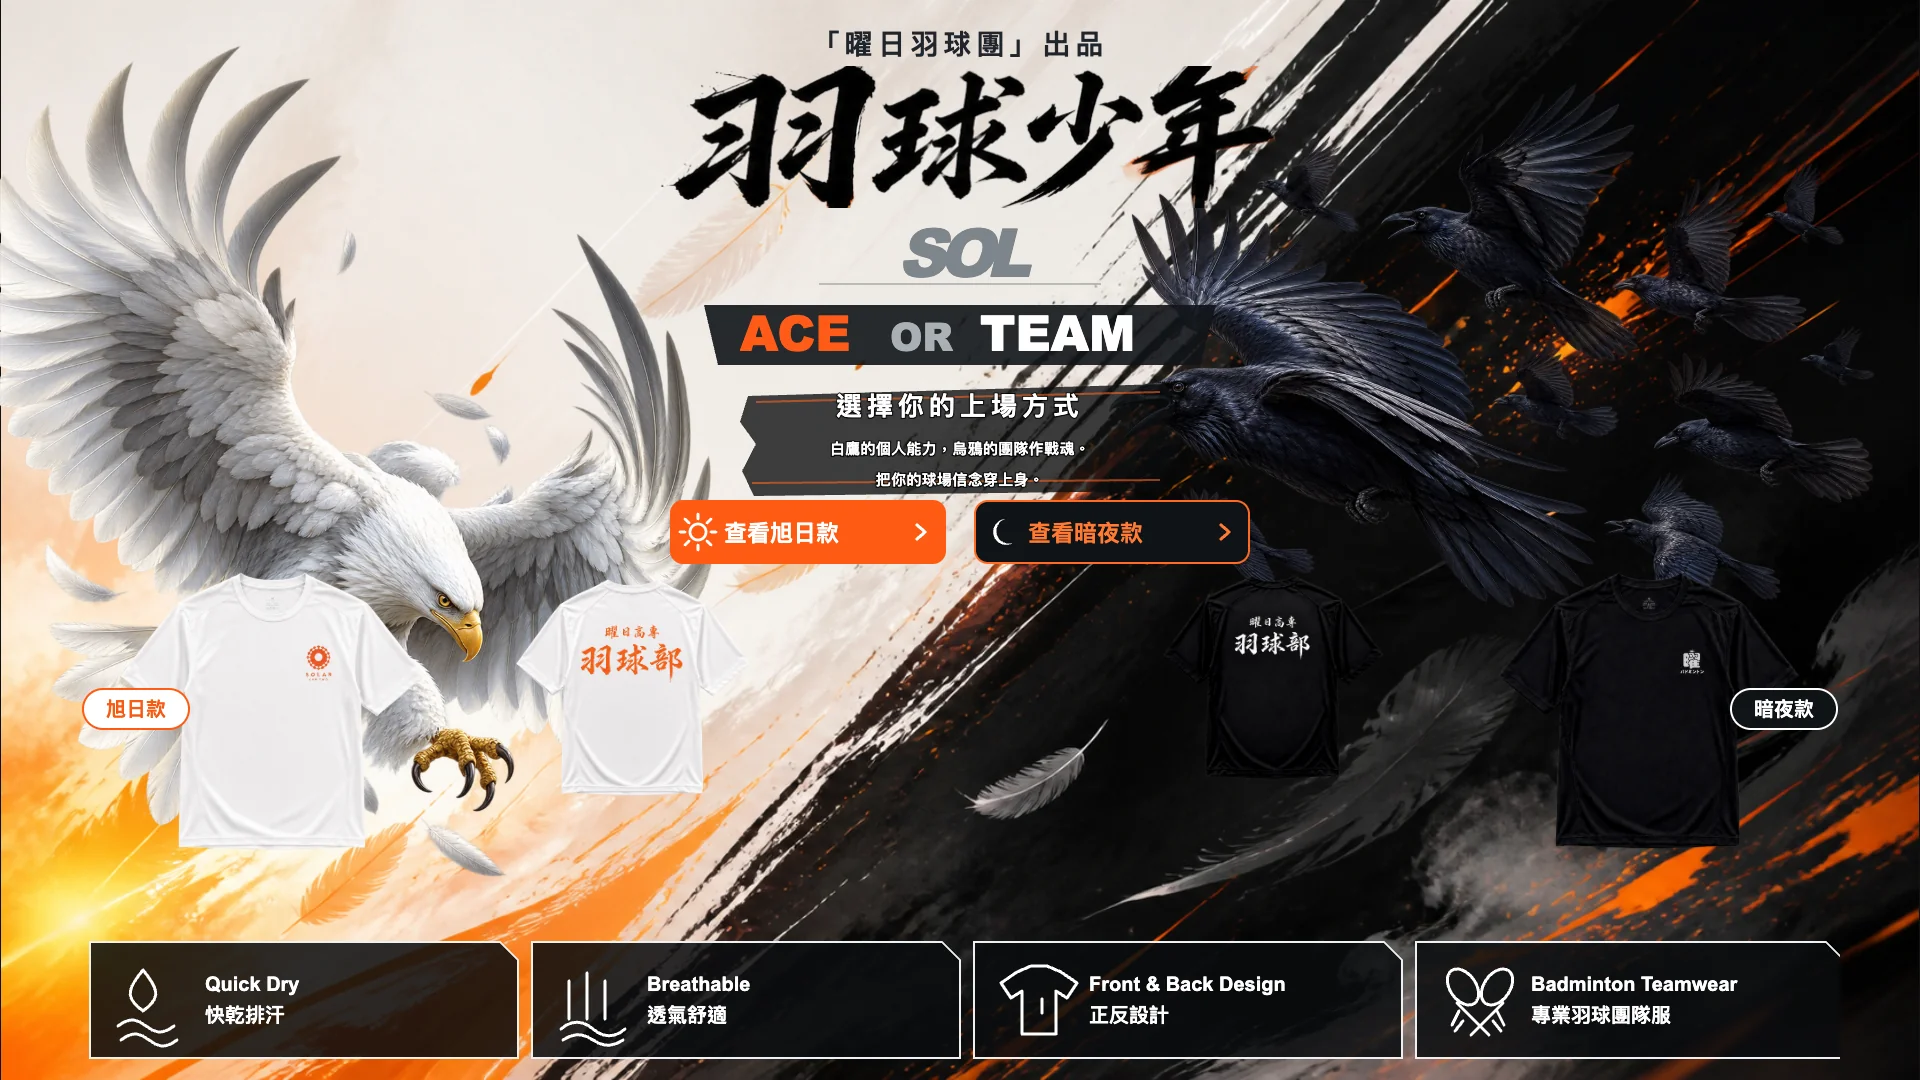
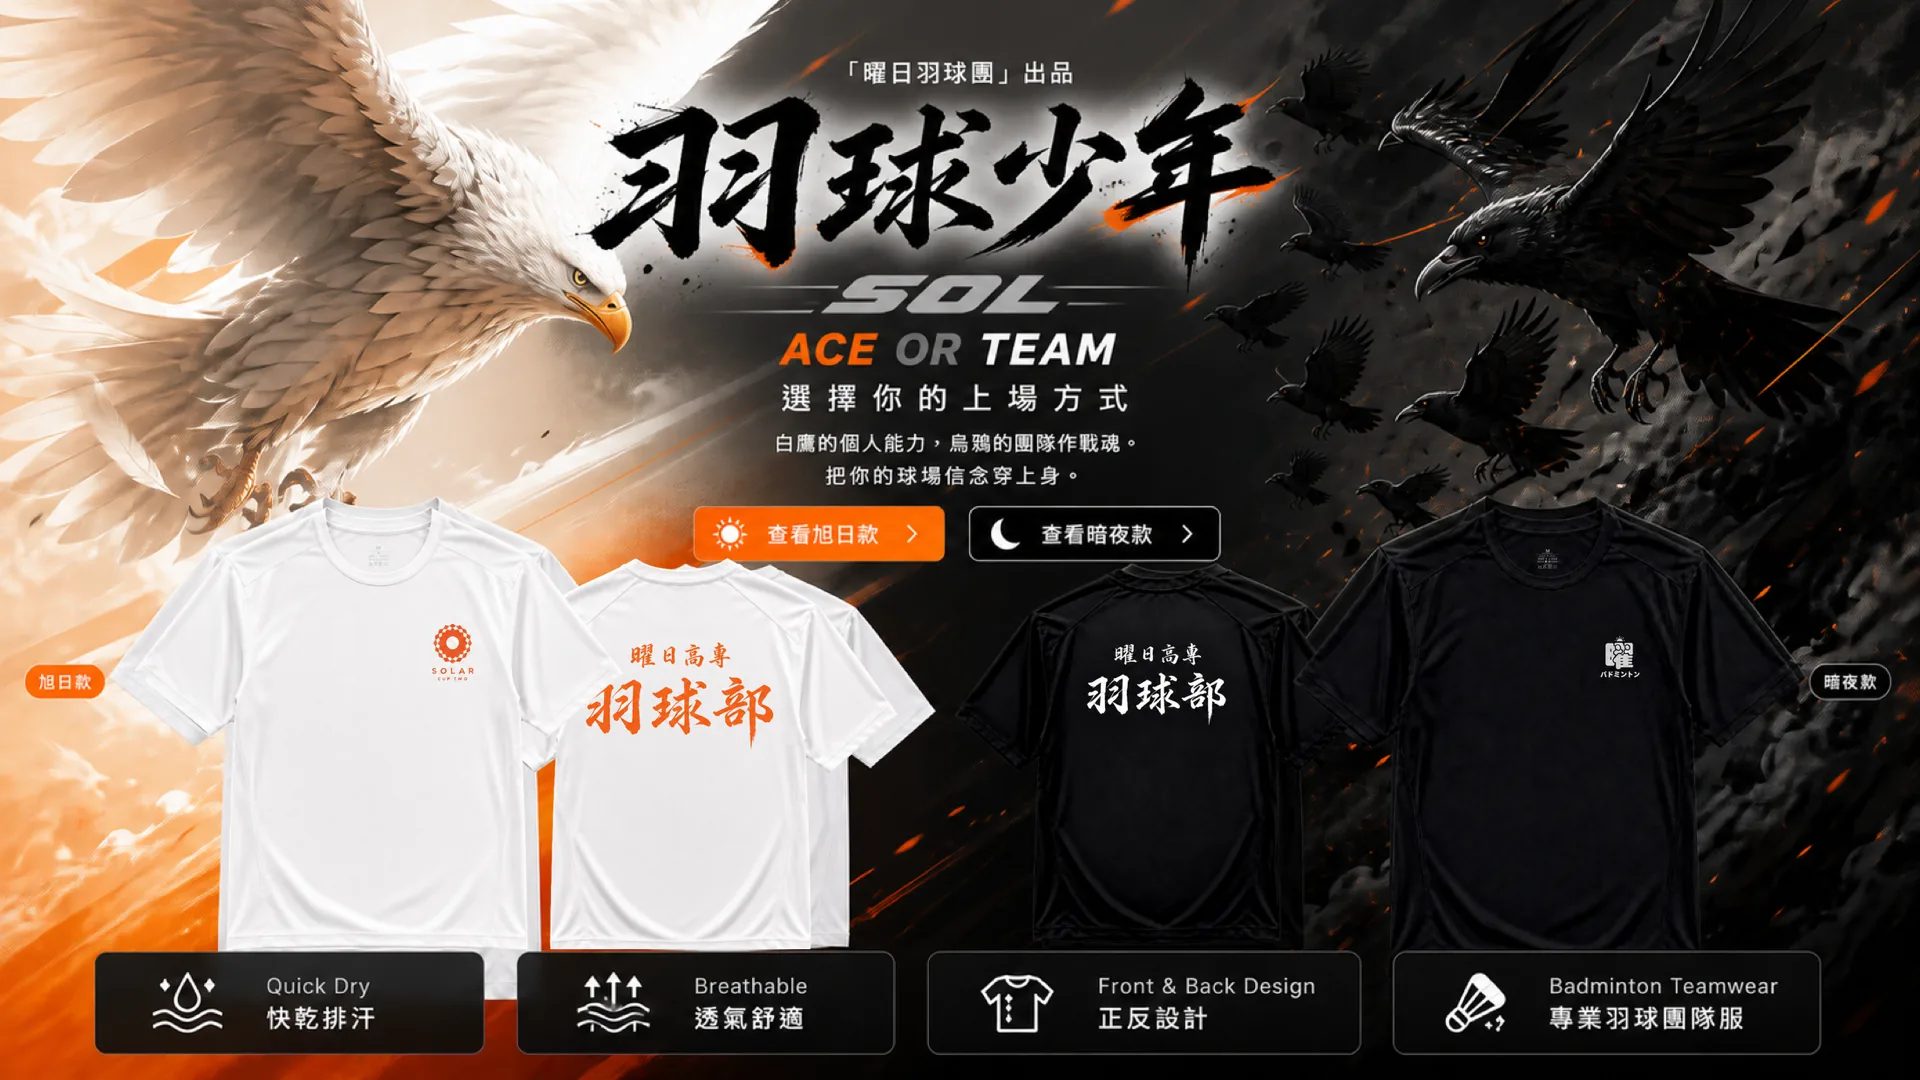
feat: 桌機主視覺換 0826 final 版合成圖，熱區重新對位
hero-full-desktop.webp 與 og-hero.jpg 改用新合成圖
（衣服四件排開版），按鈕熱區依像素掃描重新對位。
手機版與現行檔一致，不變動。

diff --git a/index.html b/index.html
@@ -41,7 +41,7 @@
     .duel-mobile-stack{display:contents}@media(max-width:760px){.duel-mobile-stack{position:absolute;left:0;right:0;bottom:var(--mobile-bar-space);display:flex;flex-direction:column;gap:8px;z-index:4}.duel-mobile-stack .duel-actions,.duel-mobile-stack .duel-features,.duel-mobile-stack .hero-caption{position:static;transform:none;top:auto;bottom:auto}.duel-mobile-stack .duel-actions{align-self:center;order:1;min-height:44px}.duel-mobile-stack .duel-features{align-self:center;order:2;min-height:118px;gap:6px}.duel-mobile-stack .hero-caption{order:3;width:100%;min-height:34px}.duel-mobile-stack .duel-actions a{min-height:44px;padding-top:0;padding-bottom:0}.duel-mobile-stack .duel-features div{min-height:57px;padding:7px}.duel-mobile-stack .duel-icon{width:23px;height:23px;margin-bottom:2px;padding:3px}.duel-mobile-stack .duel-features b{font-size:9px}.duel-mobile-stack .duel-features span{font-size:8px}.duel-copy>b{font-size:29px}.duel-copy h1{font-size:25px}.duel-copy p{font-size:14px}.duel-shirts{width:47.3%;bottom:60%}}
     @media(max-width:420px){.duel-shirts{width:33%;bottom:54.1%}.duel-mobile-stack .duel-features{min-height:112px;gap:5px}.duel-mobile-stack .duel-features div{min-height:54px;padding:6px}.duel-mobile-stack .duel-icon{width:22px;height:22px}.duel-copy>b{font-size:18px}.duel-copy h1{font-size:15px}.duel-copy>img{max-height:33px}}
     .duel-hero{--shirt-front:82%;--shirt-back:58%;--shirt-group-width:29%;--shirt-bottom:15%}.duel-shirts{width:var(--shirt-group-width);bottom:var(--shirt-bottom)}.duel-shirts .shirt-main{width:var(--shirt-front);height:auto;transform:none}.duel-shirts .shirt-back{width:var(--shirt-back);height:auto;transform:none}.duel-white{left:3%}.duel-black{right:3%}@media(max-width:760px){.duel-hero{--shirt-front:78%;--shirt-back:55%;--shirt-group-width:45%;--shirt-bottom:33%}.duel-white{left:4%}.duel-black{right:4%}}@media(max-width:420px){.duel-hero{--shirt-group-width:42%;--shirt-bottom:34%}}
-    .duel-hero{aspect-ratio:1920/1080}.hero-hot{position:absolute;z-index:4;display:block}.hero-hot:focus-visible{outline:3px solid #fff;outline-offset:2px}.hot-sun{left:34.5%;top:45.6%;width:15.5%;height:7.4%}.hot-night{left:50.3%;top:45.6%;width:15%;height:7.4%}@media(max-width:760px){.duel-hero{aspect-ratio:1080/1919}.hot-sun{left:20.3%;top:79%;width:28.5%;height:5.6%}.hot-night{left:51%;top:79%;width:27.5%;height:5.6%}}
+    .duel-hero{aspect-ratio:1920/1080}.hero-hot{position:absolute;z-index:4;display:block}.hero-hot:focus-visible{outline:3px solid #fff;outline-offset:2px}.hot-sun{left:35.7%;top:46%;width:13.9%;height:6.6%}.hot-night{left:50%;top:46%;width:13.9%;height:6.6%}@media(max-width:760px){.duel-hero{aspect-ratio:1080/1919}.hot-sun{left:20.3%;top:79%;width:28.5%;height:5.6%}.hot-night{left:51%;top:79%;width:27.5%;height:5.6%}}
     .hero-note{background:#0a1426;color:#cfd6e4;text-align:center;font-size:12px;padding:9px 14px;margin:0}
   </style>
 </head>
